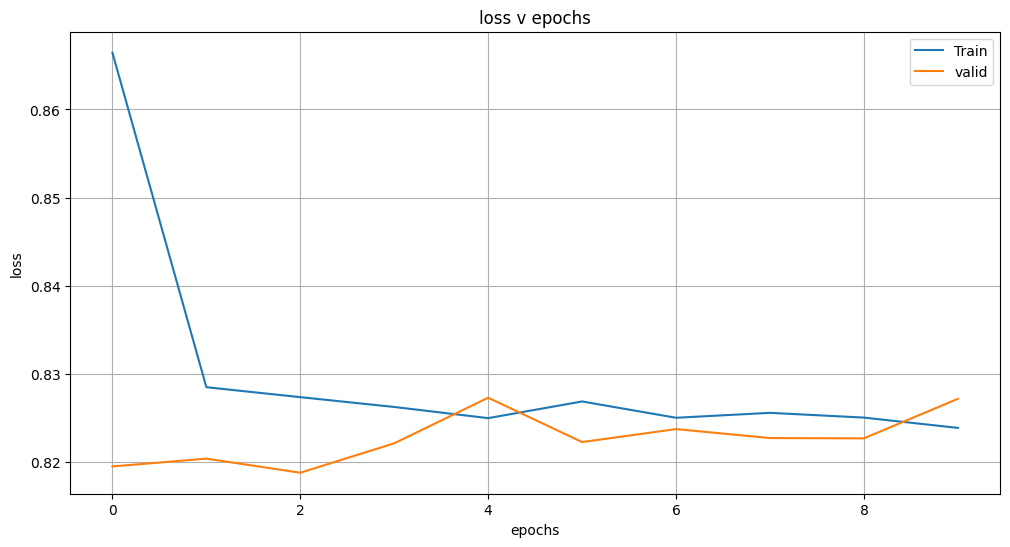
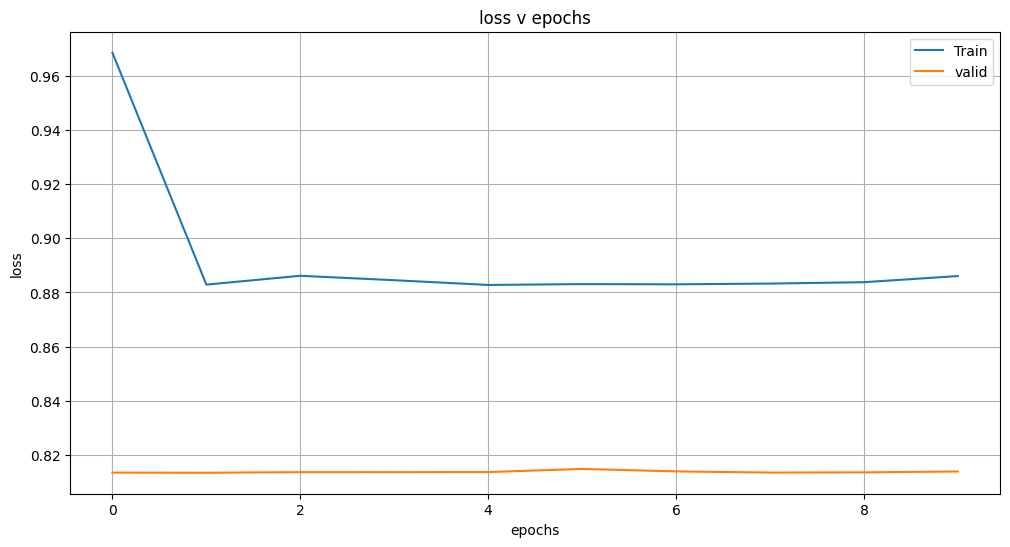
add readme / modify main.py

diff --git a/prep.py b/prep.py
@@ -1,34 +1,3 @@
-#!/usr/bin/env python
-# coding: utf-8
-
-# 
-# This notebook is simpified version of the final project in the [How to Win a Data Science Competition: Learn from Top Kagglers](https://www.coursera.org/learn/competitive-data-science) course. Simplified means without ensembling.
-# 
-# #### Pipline
-# * load data
-# * heal data and remove outliers
-# * work with shops/items/cats objects and features
-# * create matrix as product of item/shop pairs within each month in the train set
-# * get monthly sales for each item/shop pair in the train set and merge it to the matrix
-# * clip item_cnt_month by (0,20)
-# * append test to the matrix, fill 34 month nans with zeros
-# * merge shops/items/cats to the matrix
-# * add target lag features
-# * add mean encoded features
-# * add price trend features
-# * add month
-# * add days
-# * add months since last sale/months since first sale features
-# * cut first year and drop columns which can not be calculated for the test set
-# * select best features
-# * set validation strategy 34 test, 33 validation, less than 33 train
-# * fit the model, predict and clip targets for the test set
-
-# # Part 1, perfect features
-
-# In[1]:
-
-
 import numpy as np
 import pandas as pd
 
@@ -41,16 +10,6 @@ from sklearn.preprocessing import LabelEncoder
 import seaborn as sns
 import matplotlib.pyplot as plt
 
-get_ipython().run_line_magic('matplotlib', 'inline')
-
-from xgboost import XGBRegressor
-from xgboost import plot_importance
-
-
-def plot_features(booster, figsize):
-    fig, ax = plt.subplots(1, 1, figsize=figsize)
-    return plot_importance(booster=booster, ax=ax)
-
 
 import time
 import sys
@@ -60,12 +19,6 @@ import random
 
 random.seed(0)
 np.random.seed(0)
-
-sys.version_info
-
-
-# In[2]:
-
 
 items = pd.read_csv("./data/items.csv")
 shops = pd.read_csv("./data/shops.csv")
@@ -165,7 +118,7 @@ items.drop(["item_name"], axis=1, inplace=True)
 
 
 # ## Monthly sales
-# Test set is a product of some shops and some items within 34 month. There are 5100 items * 42 shops = 214200 pairs. 363 items are new compared to the train. Hence, for the most of the items in the test set target value should be zero. 
+# Test set is a product of some shops and some items within 34 month. There are 5100 items * 42 shops = 214200 pairs. 363 items are new compared to the train. Hence, for the most of the items in the test set target value should be zero.
 # In the other hand train set contains only pairs which were sold or returned in the past. Tha main idea is to calculate monthly sales and <b>extend it with zero sales</b> for each unique pair within the month. This way train data will be similar to test data.
 
 # In[15]:
@@ -236,7 +189,7 @@ matrix.head()
 
 
 # Aggregate train set by shop/item pairs to calculate target aggreagates, then <b>clip(0,20)</b> target value. This way train target will be similar to the test predictions.
-# 
+#
 # <i>I use floats instead of ints for item_cnt_month to avoid downcasting it after concatination with the test set later. If it would be int16, after concatination with NaN values it becomes int64, but foat16 becomes float16 even with NaNs.</i>
 
 # In[24]:
@@ -680,7 +633,7 @@ matrix["days"] = matrix["month"].map(days).astype(np.int8)
 
 
 # Months since the last sale for each shop/item pair and for item only. I use programing approach.
-# 
+#
 # <i>Create HashTable with key equals to {shop_id,item_id} and value equals to date_block_num. Iterate data from the top. Foreach row if {row.shop_id,row.item_id} is not present in the table, then add it to the table and set its value to row.date_block_num. if HashTable contains key, then calculate the difference beteween cached value and row.date_block_num.</i>
 
 # In[64]:
@@ -793,4 +746,3 @@ del cats
 del train
 # leave test for submission
 gc.collect()
-

diff --git a/main.py b/main.py
@@ -52,6 +52,7 @@ X_train_l2 = X_train_s[split_num:]
 Y_train_l2 = Y_train.loc[X_train_l2.index]
 print("level 1 training data:", split_num)
 print("level 2 training data:", len(X_train) - split_num)
+print()
 
 # l1m1
 ts = time.time()
@@ -73,6 +74,7 @@ model_1.fit(
     early_stopping_rounds=10,
 )
 print("\nl1m1 finished:", time.time() - ts)
+print()
 
 # l1m2
 ts = time.time()
@@ -94,6 +96,7 @@ model_2.fit(
     early_stopping_rounds=10,
 )
 print("\nl1m2 finished:", time.time() - ts)
+print()
 
 # l1m3
 ts = time.time()
@@ -115,6 +118,7 @@ model_3.fit(
     early_stopping_rounds=10,
 )
 print("\nl1m3 finished:", time.time() - ts)
+print()
 
 # l1m4
 ts = time.time()
@@ -136,6 +140,7 @@ model_4.fit(
     early_stopping_rounds=10,
 )
 print("\nl1m4 finished:", time.time() - ts)
+print()
 
 # l1m5
 ts = time.time()
@@ -200,7 +205,7 @@ validset = Data(X_val_l2_fea, Y_valid.values)
 # model
 model = NN(in_features=5, out_features=1)
 model.to(device)
-summary(model, input_size=(0, 5))
+print(model)
 
 # hypperparameter
 loss_fn = torch.nn.MSELoss()
@@ -209,7 +214,7 @@ bs = 4096
 train_loader = DataLoader(dataset=trainset, batch_size=bs, shuffle=True)
 val_loader = DataLoader(dataset=validset, batch_size=bs, shuffle=False)
 scheduler = torch.optim.lr_scheduler.ReduceLROnPlateau(
-    optimiser, mode="min", factor=0.5, patience=3
+    optimiser, mode="min", factor=0.5, patience=2
 )
 num_epochs = 10
 

diff --git a/utils.py b/utils.py
@@ -1,6 +1,7 @@
 import torch
 import torch.nn as nn
 from torch.utils.data import Dataset
+from torchsummary import summary
 
 
 class Data(Dataset):
@@ -38,11 +39,12 @@ class NN(nn.Module):
     def __init__(self, in_features, out_features):
         super(NN, self).__init__()
 
+        self.dropout = nn.Dropout(p=0.4)
         self.fc = nn.Linear(in_features, out_features)
 
     def forward(self, x):
 
-        x = self.fc(x)
+        x = self.fc(self.dropout(x))
 
         return x.squeeze()
 
@@ -89,3 +91,19 @@ def training(
         )
 
     return train_loss_list, val_loss_list
+
+
+if __name__ == "__main__":
+
+    # device
+    if torch.cuda.is_available():
+        device = torch.device("cuda:0")
+        print("GPU is avalible")
+        print("Working on ", torch.cuda.get_device_name())
+    else:
+        device = torch.device("cpu")
+        print("GPU is not avalible")
+
+    model = NN(in_features=5, out_features=1)
+    model.to(device)
+    print(model)

diff --git a/readme.md b/readme.md
@@ -1,0 +1,28 @@
+# DSAI - HW4
+
+## Intro
+
+本題目為 [Kaggle - Predict Future Sales](https://www.kaggle.com/c/competitive-data-science-predict-future-sales)。
+執行前請先將比賽的 data 放到 data/ 資料夾中。
+
+## Usage
+
+### Step 1: Data preprocessing
+
+```bash
+python prep.py
+```
+
+資料前處理，產生特徵。執行完後，會在工作目錄下生成 data.pkl
+
+### Step 2: Stacking XGBoost
+
+```bash
+python main.py
+```
+
+Level 1 model: XGBRegressor * 5
+
+Level 2 model: torch Linear layer
+
+
